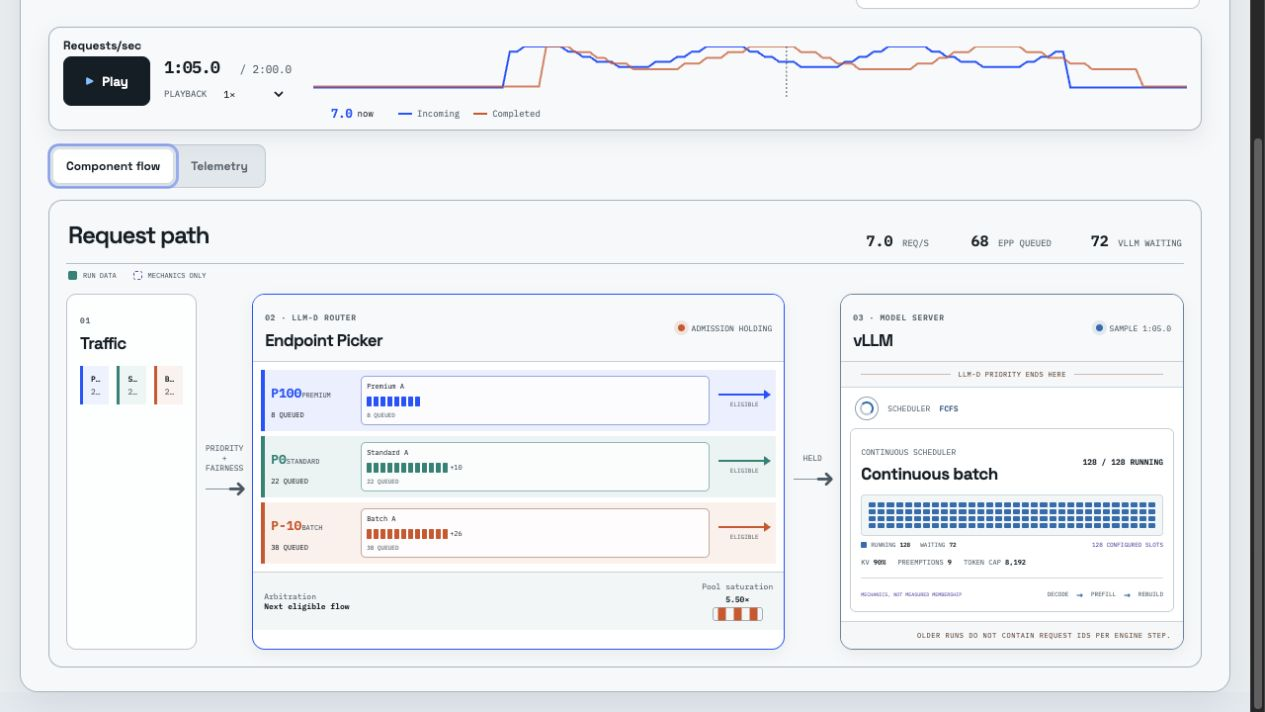
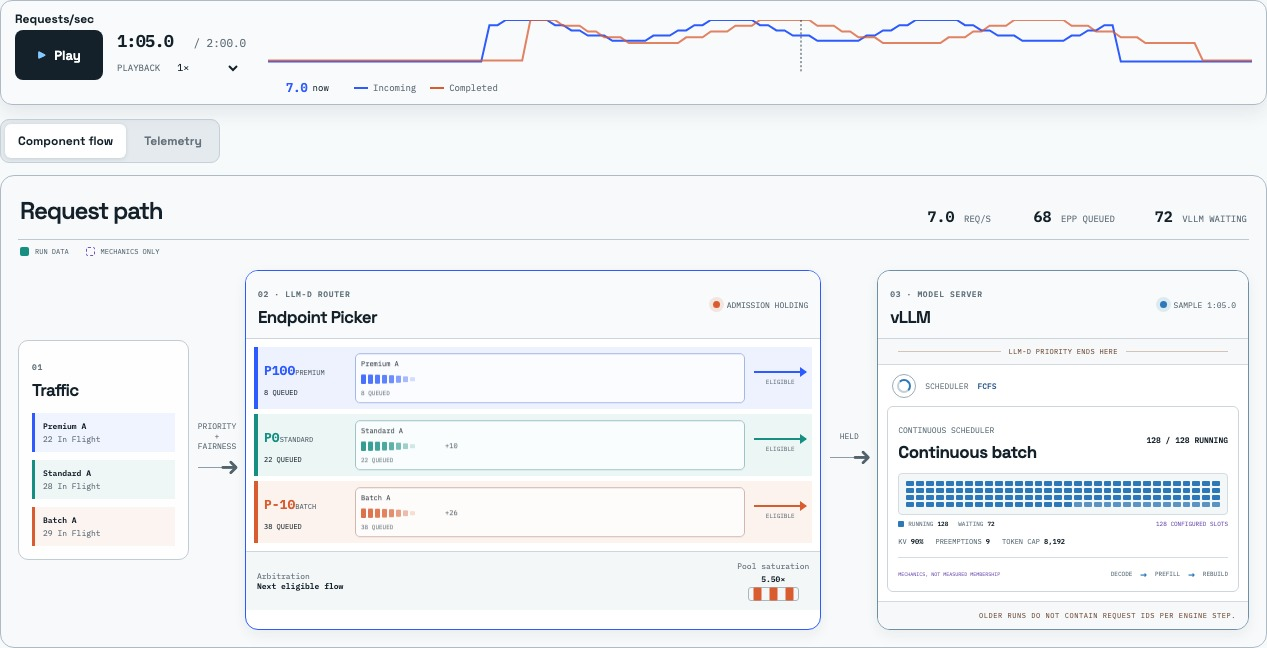
fix: make traffic rail readable

diff --git a/src/styles.css b/src/styles.css
@@ -1255,7 +1255,7 @@ footer {
 
 .component-flow-canvas {
   display: grid;
-  grid-template-columns: minmax(150px, 0.42fr) 58px minmax(500px, 1.55fr) 58px minmax(420px, 1.2fr);
+  grid-template-columns: minmax(170px, 0.46fr) 58px minmax(500px, 1.55fr) 58px minmax(420px, 1.2fr);
   gap: 8px;
   align-items: stretch;
   margin-top: 20px;
@@ -2136,7 +2136,7 @@ body.recording-mode {
 }
 
 .recording-mode .component-flow-canvas {
-  grid-template-columns: minmax(125px, 0.38fr) 44px minmax(480px, 1.55fr) 44px minmax(330px, 1fr);
+  grid-template-columns: minmax(170px, 0.46fr) 44px minmax(480px, 1.55fr) 44px minmax(330px, 1fr);
 }
 
 .recording-mode .component-connector {
@@ -2288,7 +2288,7 @@ main {
 }
 
 .component-flow-canvas {
-  grid-template-columns: minmax(125px, 0.38fr) 44px minmax(480px, 1.55fr) 44px minmax(330px, 1fr);
+  grid-template-columns: minmax(170px, 0.46fr) 44px minmax(480px, 1.55fr) 44px minmax(330px, 1fr);
   gap: 6px;
   margin-top: 14px;
 }
@@ -2930,6 +2930,53 @@ input[type='range'] {
   .request-streams > *,
   .queue-rack > *,
   .pod-grid > * {
+    grid-column: 1;
+  }
+}
+
+/* Traffic is an input rail, not a peer-sized processing stage. Keep it compact
+   beside the wide router and give every tenant the full narrow rail width. */
+.component-flow-canvas > .ingress-component {
+  align-self: center;
+}
+
+.component-flow-canvas .ingress-component .request-streams {
+  grid-template-columns: minmax(0, 1fr);
+}
+
+.component-flow-canvas .ingress-component .request-streams > * {
+  grid-column: 1 / -1;
+}
+
+@media (max-width: 1240px) {
+  .component-flow-canvas > .ingress-component {
+    align-self: stretch;
+  }
+
+  .component-flow-canvas .ingress-component .request-streams {
+    grid-template-columns: repeat(6, minmax(0, 1fr));
+  }
+
+  .component-flow-canvas .ingress-component .request-streams > * {
+    grid-column: span 2;
+  }
+
+  .component-flow-canvas .ingress-component .request-streams > :last-child:nth-child(3n + 1) {
+    grid-column: 1 / -1;
+  }
+
+  .component-flow-canvas .ingress-component .request-streams > :nth-last-child(2):nth-child(3n + 1),
+  .component-flow-canvas .ingress-component .request-streams > :last-child:nth-child(3n + 2) {
+    grid-column: span 3;
+  }
+}
+
+@media (max-width: 700px) {
+  .component-flow-canvas .ingress-component .request-streams {
+    grid-template-columns: minmax(0, 1fr);
+  }
+
+  .component-flow-canvas .ingress-component .request-streams > * {
     grid-column: 1;
   }
 }
